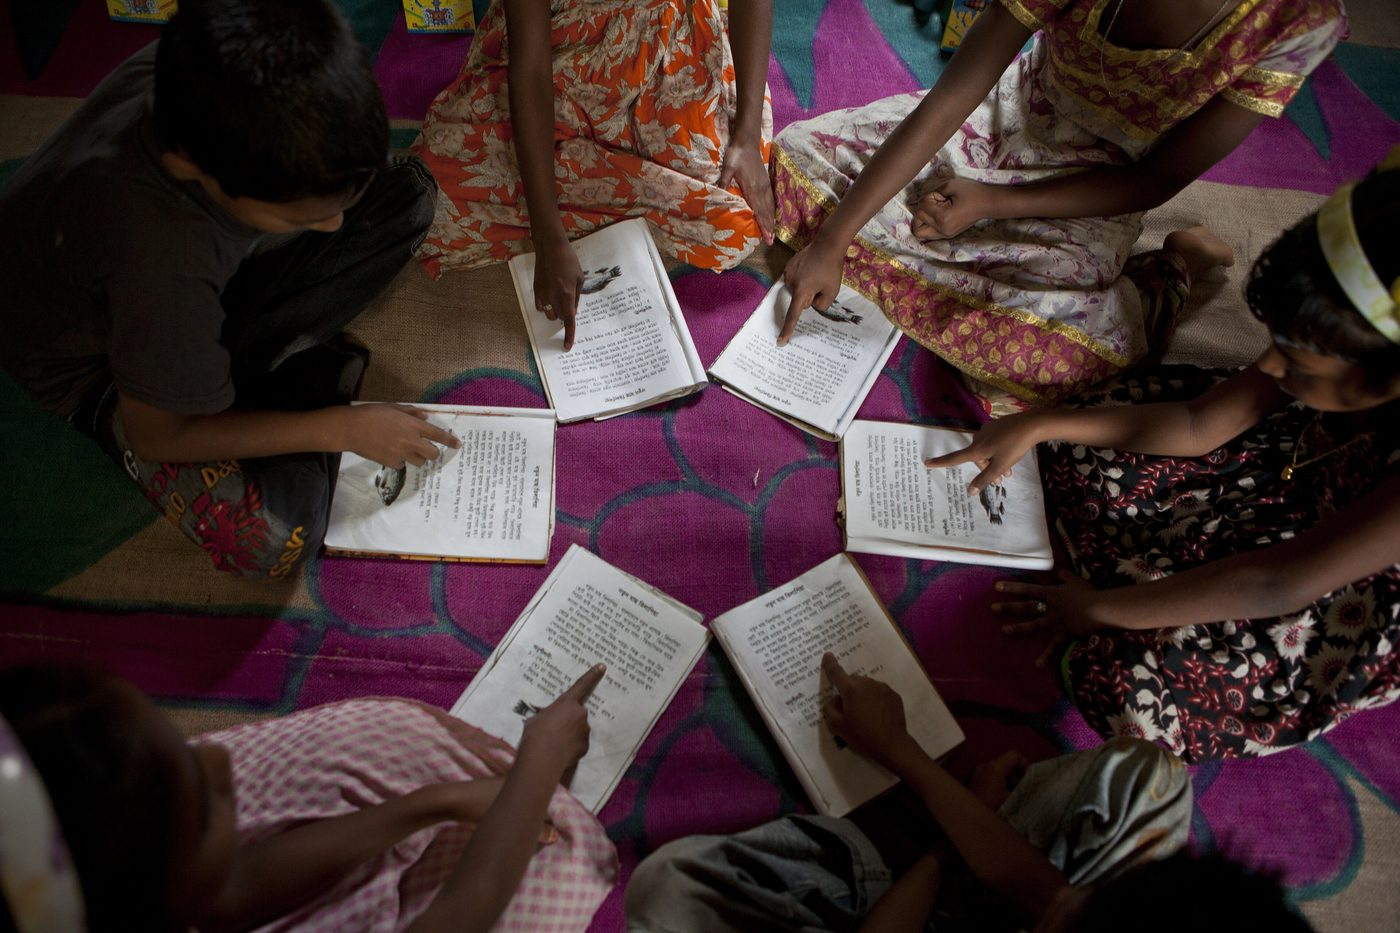
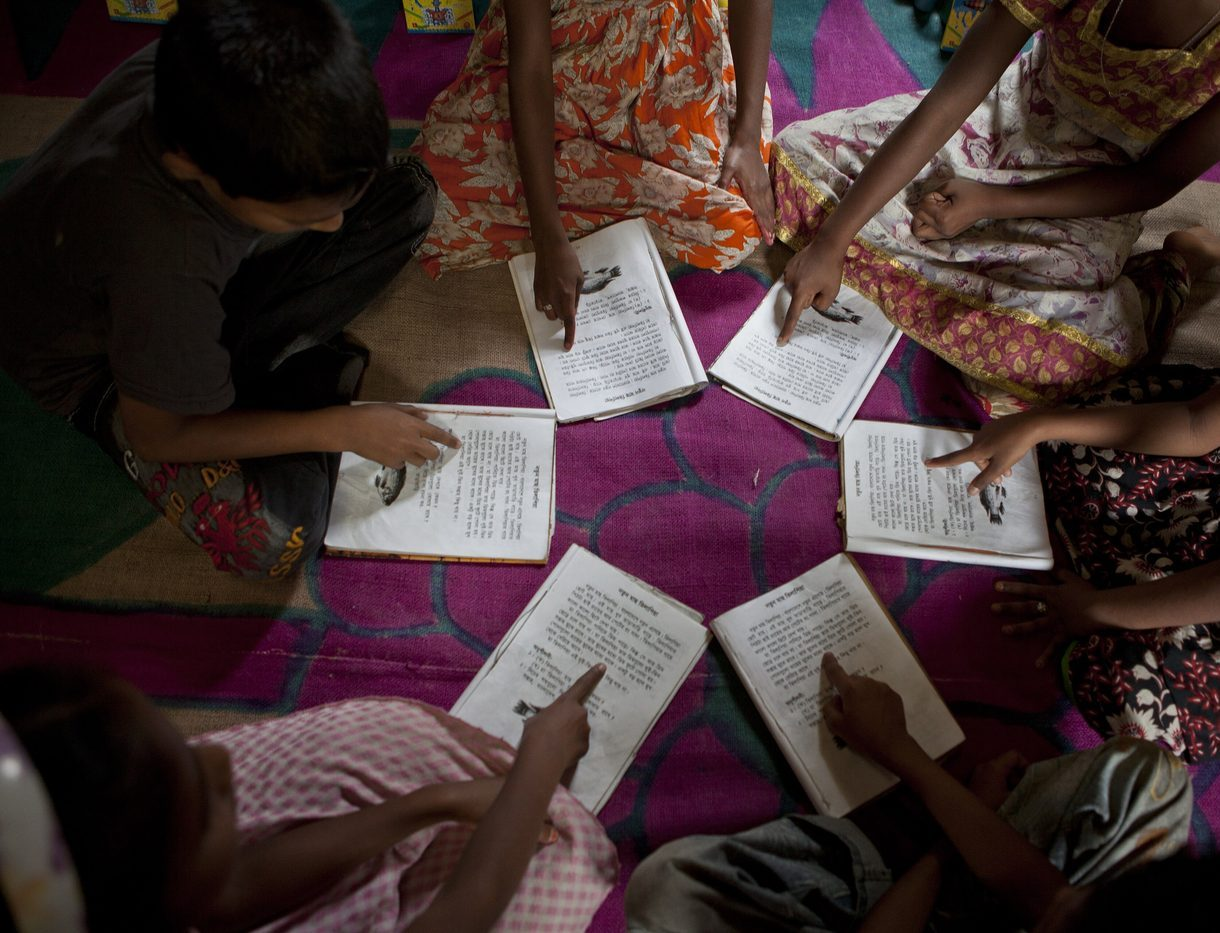
Part 3: replace photos showing women with lentils, vaccine box, goats

diff --git a/blog/nobel-2019-banerjee-duflo-kremer.html b/blog/nobel-2019-banerjee-duflo-kremer.html
@@ -29,13 +29,13 @@
 </nav>
 
 <header class="post-hero">
-  <img src="img/rct-hero.jpg" style="object-position:center 35%" alt="কক্সবাজারের রামুতে এক নারী হাসিমুখে তাঁর ছাগল জড়িয়ে বসে আছেন" />
+  <img src="img/rct-hero.jpg" alt="বাজারে খোলা বস্তায় সাজানো নানা রকম ডাল ও শস্য" />
   <div class="post-hero-text">
     <p class="series-tag">নোবেলের অর্থনীতি · পর্ব ৩</p>
     <h1>এক ব্যাগ ডালে টিকা দ্বিগুণ: গরিবি কমানোর পরীক্ষাগার</h1>
     <p class="post-meta">২০১৯ সালের অর্থনীতির নোবেল · ৪ মিনিটে পড়া</p>
   </div>
-  <p class="credit">ছবি: রামু, কক্সবাজার, ২০২২। Manik.biswas1, <a href="https://commons.wikimedia.org/wiki/File:Way_to_independent_business.jpg" target="_blank" rel="noopener">Wikimedia Commons</a>, CC BY-SA 4.0</p>
+  <p class="credit">ছবি: দার্জিলিংয়ের বাজারে বস্তায় ডাল, ২০১৪। Adam Jones, <a href="https://commons.wikimedia.org/wiki/File:Pulses_for_Sale_in_Market_-_Darjeeling_-_West_Bengal_-_India_(12431603075).jpg" target="_blank" rel="noopener">Wikimedia Commons</a>, CC BY-SA 2.0</p>
 </header>
 <article class="post">
   <a href="../#blog" class="post-back">← ব্লগে ফিরুন</a>
@@ -43,8 +43,8 @@
   <p class="lede">রাজস্থানের উদয়পুরের গ্রাম। শিশুদের টিকা বিনামূল্যে, তবু বেশির ভাগ মা পুরো কোর্স শেষ করাতেন না। গবেষকেরা একটা ছোট্ট কাজ করলেন: প্রতিবার টিকা দিতে এলে বাবা-মায়ের হাতে এক কেজি ডাল, আর পুরো কোর্স শেষ হলে এক সেট থালা। ডালের দাম ছিল এক দিনের মজুরিরও কম। ফল? যেসব গ্রামে শুধু নিয়মিত টিকা ক্যাম্প বসেছিল, সেখানে পুরো টিকা পেল ১৮% শিশু। ক্যাম্পের সাথে ডাল দেওয়া গ্রামে ৩৯%। আর যেখানে কিছুই করা হয়নি, সেখানে মাত্র ৬%।</p>
   <p>এক ব্যাগ ডাল কীভাবে এত বড় পার্থক্য গড়ে? আর এটা যে সত্যিই ডালের জন্যই হলো, তা জানলাম কী করে? এই প্রশ্নের পেছনের পদ্ধতির জন্যই ২০১৯ সালে অর্থনীতির নোবেল পান তিনজন।</p>
   <figure class="post-photo">
-    <img src="img/rct-vaccine.jpg" alt="এক স্বাস্থ্যকর্মী টিকা প্রস্তুত করছেন, পাশে কোলে শিশু নিয়ে হাসিমুখে এক মা" loading="lazy" />
-    <figcaption>ভারতের ওড়িশায় স্বাস্থ্যকর্মী টিকা প্রস্তুত করছেন, কোলে শিশু নিয়ে অপেক্ষায় এক মা, ২০১১। ছবি: Pippa Ranger/DFID, <a href="https://commons.wikimedia.org/wiki/File:Community_health_worker_gives_a_vaccination_in_Odisha_state,_India_(8380317750).jpg" target="_blank" rel="noopener">Wikimedia Commons</a>, CC BY-SA 2.0</figcaption>
+    <img src="img/rct-vaccine.jpg" alt="টিকা বহনের কোল্ড বক্স, ঢাকনায় হাতে লেখা VACCINE" loading="lazy" />
+    <figcaption>টিকা ঠান্ডা রেখে গ্রামে পৌঁছে দেওয়ার কোল্ড বক্স, লাইবেরিয়া, ২০১৫। বিনামূল্যের টিকা গ্রাম পর্যন্ত পৌঁছালেও মানুষকে ক্যাম্পে আনাটাই ছিল আসল চ্যালেঞ্জ। ছবি: Deblina Datta/CDC, <a href="https://commons.wikimedia.org/wiki/File:Delivering_vaccines_(33874917494).jpg" target="_blank" rel="noopener">Wikimedia Commons</a>, CC BY 2.0</figcaption>
   </figure>
 
   <h2>তিনজন মানুষ, একটা পদ্ধতি</h2>
@@ -105,6 +105,10 @@
   <blockquote class="pull">কোনটা কাজ করে, তা অনুমানে নয়,<br>পরীক্ষা করে জানতে হয়।</blockquote>
 
   <h2>ব্র্যাকের গরু-ছাগল, সারা বিশ্বের পরীক্ষা</h2>
+  <figure class="post-photo">
+    <img src="img/rct-goats.jpg" alt="গ্রামের উঠানে শুয়ে থাকা মা ছাগলের পাশে খেলছে দুটি কালো ছাগলছানা" loading="lazy" />
+    <figcaption>বাংলাদেশের এক গ্রামের উঠানে মা ছাগল আর দুটি ব্ল্যাক বেঙ্গল ছানা। ছবি: A S M Jobaer, <a href="https://commons.wikimedia.org/wiki/File:Black_Bengal_kids_playing_with_their_mother_01.jpg" target="_blank" rel="noopener">Wikimedia Commons</a>, CC BY-SA 4.0</figcaption>
+  </figure>
   <p>এই গল্পে বাংলাদেশও আছে। ২০০২ সালে ব্র্যাক দেশের সবচেয়ে গরিব জেলাগুলোতে অতিদরিদ্র মানুষের জন্য একটা কর্মসূচি শুরু করে, যা এখন "আল্ট্রা-পুওর গ্র্যাজুয়েশন" নামে পরিচিত। সবচেয়ে গরিব পরিবারের নারীরা পান একটা গরু বা কয়েকটা ছাগল, কিছুদিন খাবারের খরচ, প্রশিক্ষণ আর নিয়মিত পরামর্শ।</p>
   <p>লন্ডন স্কুল অব ইকোনমিকসের গবেষকেরা ১,৩০৯টি গ্রামে লটারি দিয়ে এর পরীক্ষা করেন। চার বছর পর অংশ নেওয়া নারীদের আয় শুরুর তুলনায় প্রায় ৩৭% বেড়েছিল, আর সাত বছর পরও সেই সুফল টিকে ছিল। আর ব্যানার্জি ও ডুফলো একই মডেল পরীক্ষা করেন ছয়টি দেশে: ইথিওপিয়া, ঘানা, হন্ডুরাস, ভারত, পাকিস্তান ও পেরু। প্রায় সব জায়গাতেই আয়, খাবার আর স্বাস্থ্যে উন্নতি হয়েছিল, আর কর্মসূচি শেষ হওয়ার পরও তা টিকে ছিল। পশ্চিমবঙ্গে একই ধরনের কর্মসূচির সুফল দশ বছর পরও দেখা গেছে।</p>
 
